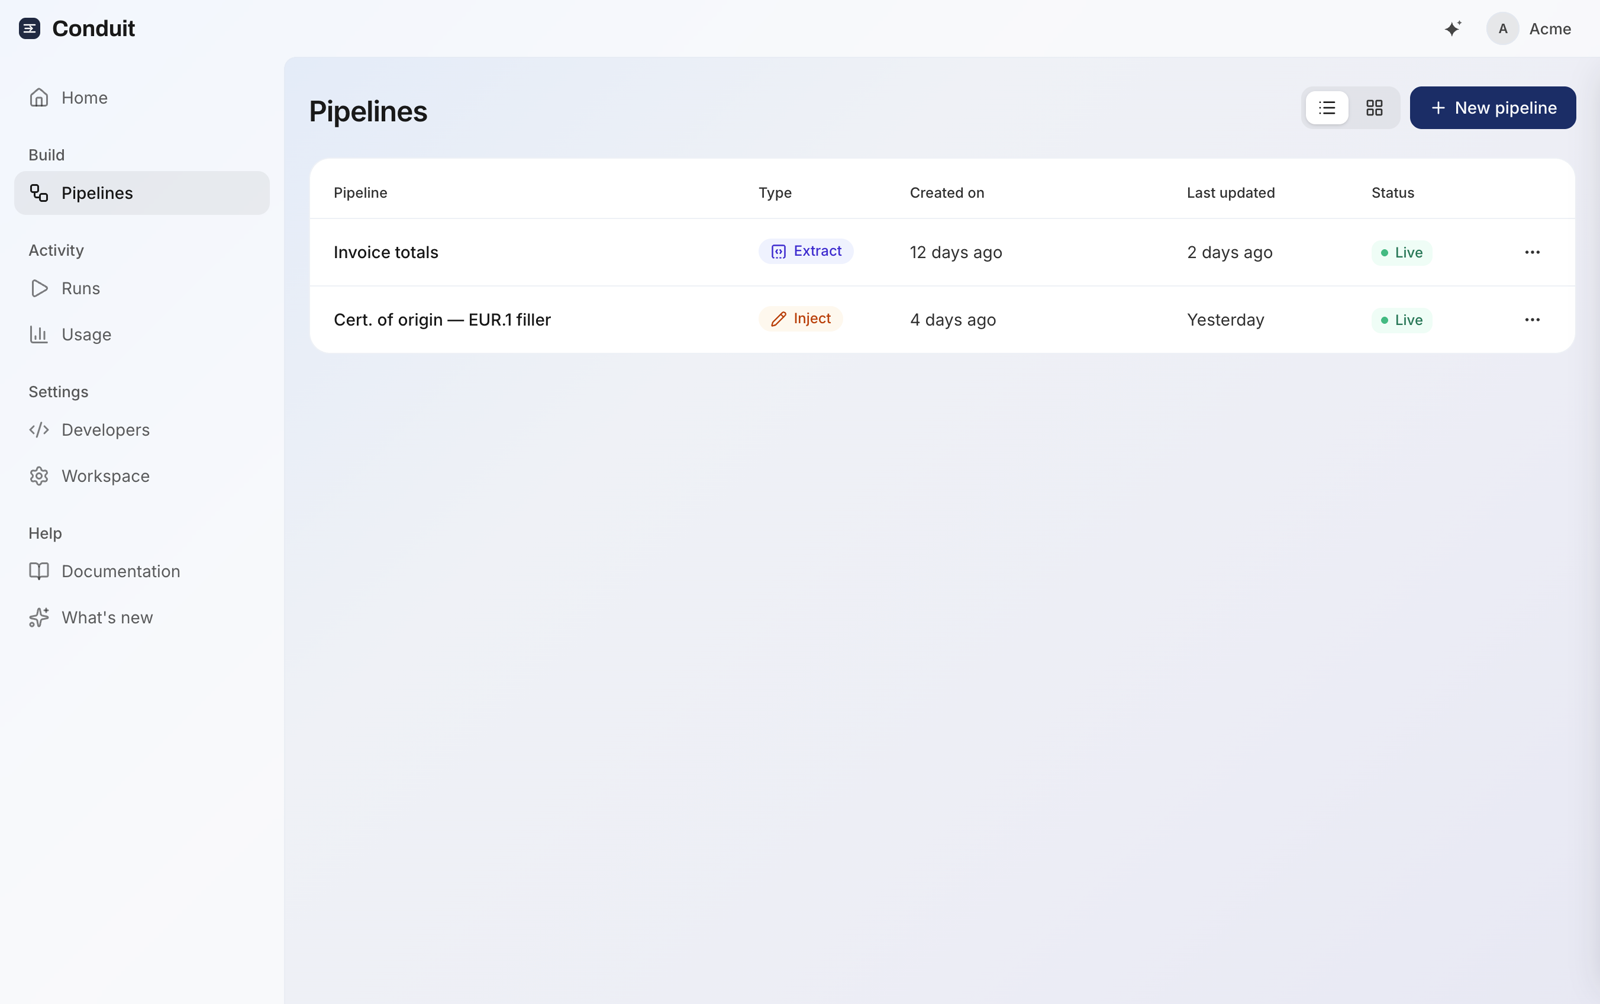
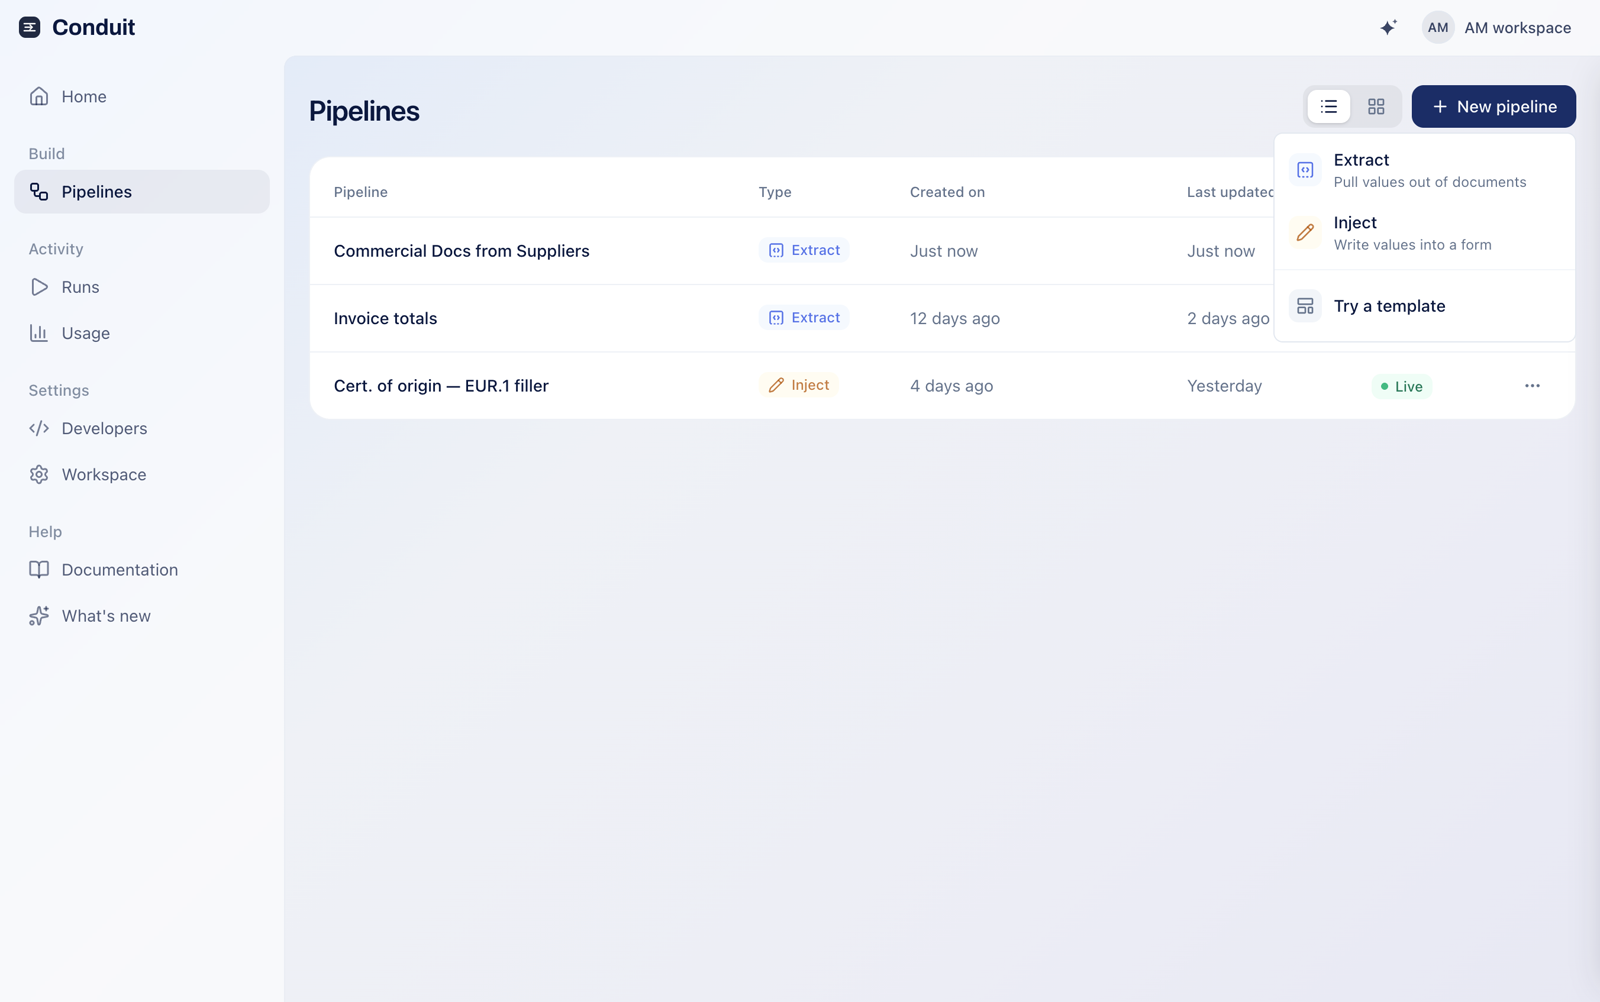
Retitle the solution section and use the new Pipelines screenshot
* Retitle the Conduit solution section

Claude-Session: https://claude.ai/code/session_01M4YX7mcUfnGRLRr3oX2SC1

* Use the Pipelines screenshot showing the Extract and Inject menu

Claude-Session: https://claude.ai/code/session_01M4YX7mcUfnGRLRr3oX2SC1

---------

diff --git a/app/projects/conduit/page.tsx b/app/projects/conduit/page.tsx
@@ -156,7 +156,7 @@ export default function ConduitCaseStudy() {
 
             <section id="solution" className="mb-10">
               <p className="font-mono text-[11px] uppercase tracking-wider text-muted-foreground mb-2">Solution</p>
-              <h2 className="font-serif text-[1.75rem] leading-[1.2] tracking-[-0.02em] mb-4 text-balance">One reusable workflow</h2>
+              <h2 className="font-serif text-[1.75rem] leading-[1.2] tracking-[-0.02em] mb-4 text-balance">Reusable workflows</h2>
               <div className="space-y-3 text-[17px] leading-relaxed text-muted-foreground max-w-[750px] mb-8">
                 <p>
                   I designed the product around a pipeline: a saved workflow that moves compliance data from a supplier
@@ -168,7 +168,7 @@ export default function ConduitCaseStudy() {
               </div>
 
               <div className="rounded-xl overflow-hidden max-w-[750px]">
-                <LightboxImage src="/conduit/pipelines.png" alt="Pipelines library: saved workflows with type, dates and live status" width={1600} height={1004} className="w-full h-auto object-cover" />
+                <LightboxImage src="/conduit/pipelines.png" alt="Pipelines library: saved workflows with type and status, and the menu for starting a new one with Extract or Inject" width={1600} height={1002} className="w-full h-auto object-cover" />
               </div>
               <p className="mt-3 text-sm text-muted-foreground max-w-[750px] text-center">Every workflow a customer configures is saved here and reused.</p>
             </section>
